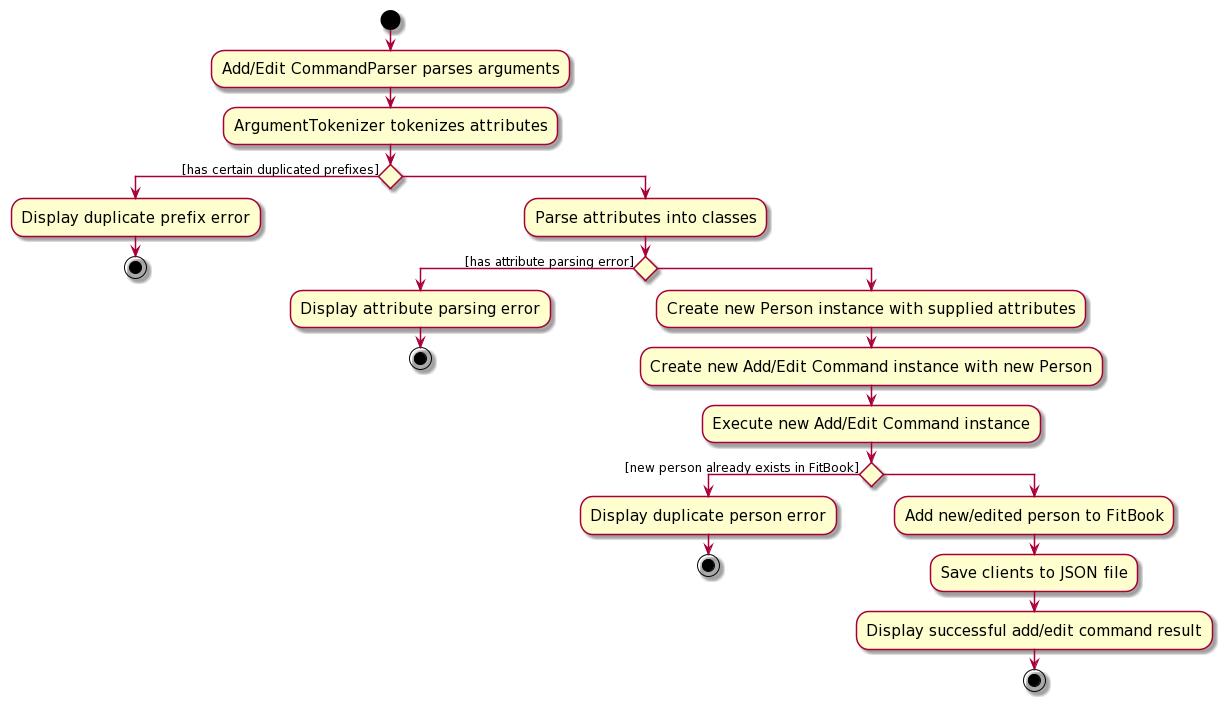
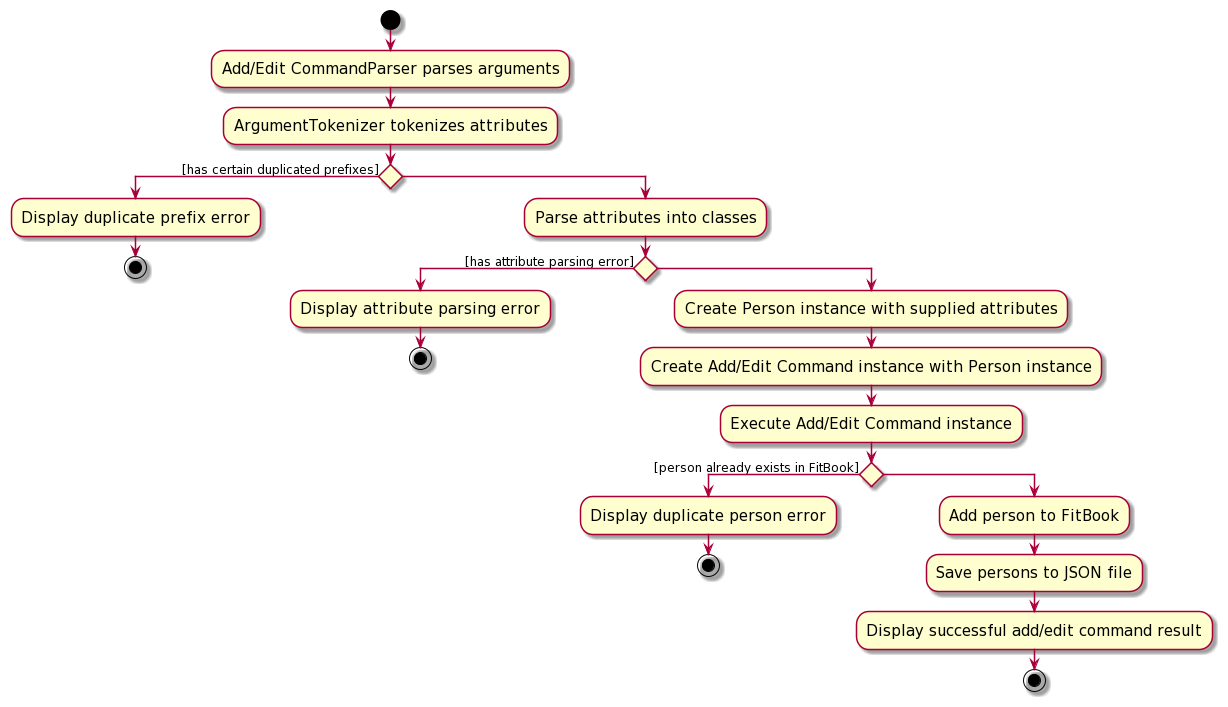
Update developer guide

diff --git a/docs/DeveloperGuide.md b/docs/DeveloperGuide.md
@@ -214,9 +214,9 @@ The diagram highlights the four main components of FitBook, highlighted in their
 
 > The above sequence diagram also applies to the removal of a note from an existing client when no input string or prefix is entered for the `note` command. (i.e. `note 1`, or `note 1 note/`).
 
-### Adding or editing a new client
+### Adding or editing a client
 
-The following activity diagram summarizes what happens when a new client is added or edited in FitBook.
+The following activity diagram summarizes what happens when a client is added or edited in FitBook.
 
 ![AddAndEditCommandSequenceDiagram](images/AddAndEditCommandActivityDiagram.png)
 
